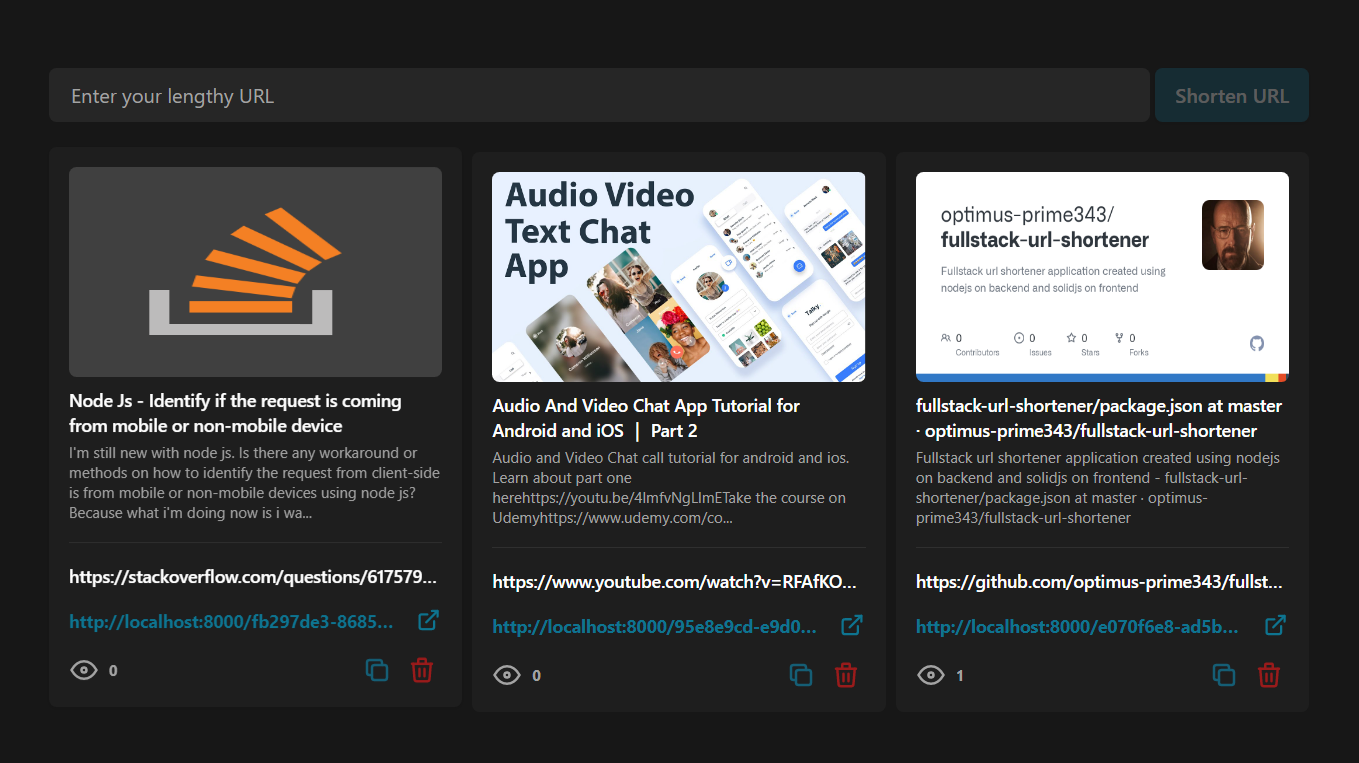
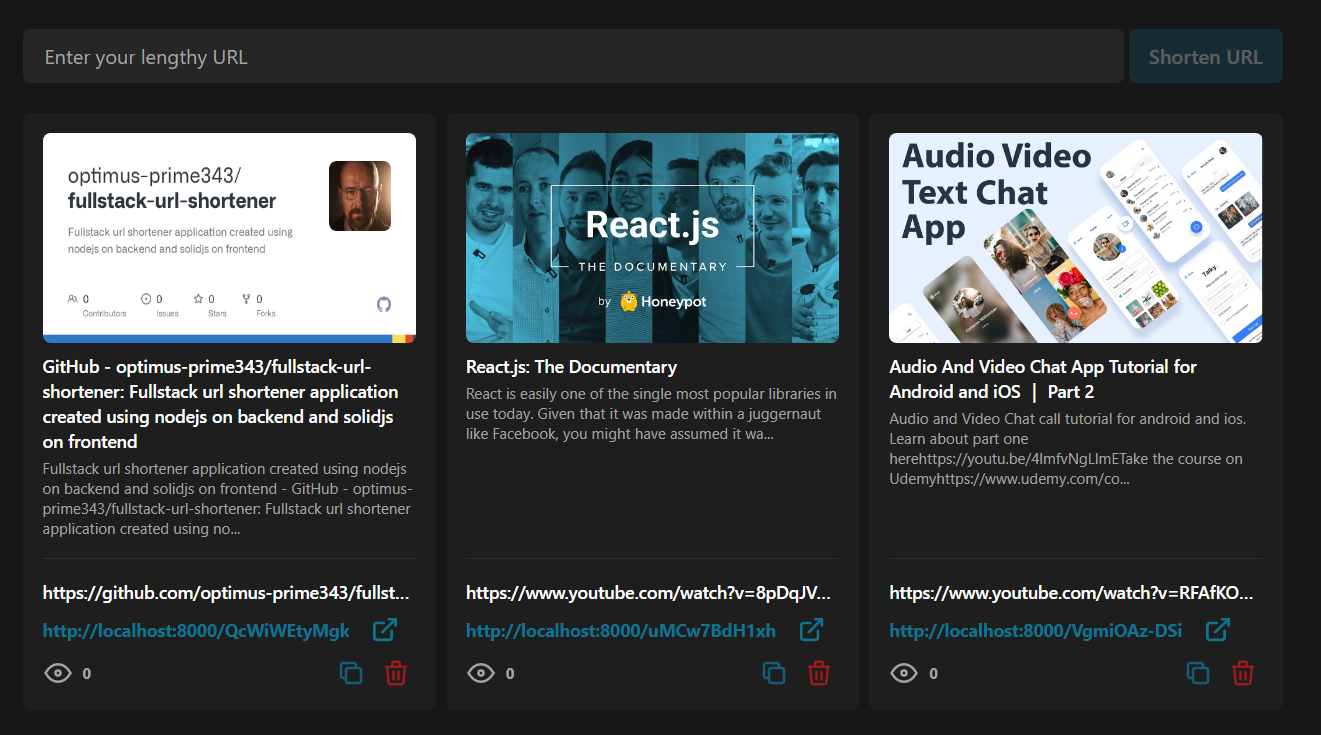
Updated shortened url id and app demo image

diff --git a/packages/server/src/features/shorten-url/shorten-url-controller.ts b/packages/server/src/features/shorten-url/shorten-url-controller.ts
@@ -1,7 +1,7 @@
 import type { User } from '@prisma/client'
-import crypto from 'crypto'
 import expressAsyncHandler from 'express-async-handler'
 import { StatusCodes } from 'http-status-codes'
+import { nanoid } from 'nanoid'
 import openGraphScraper from 'open-graph-scraper'
 
 import { prisma } from '../../lib/db.js'
@@ -22,7 +22,7 @@ export const createShortURL = expressAsyncHandler(async (req, res, _next) => {
     res.status(StatusCodes.OK).send({ success: true, data: { shortenedUrl } })
     return
   }
-  const shortenedURLId = crypto.randomUUID()
+  const shortenedURLId = nanoid(11)
   const shortenedURL = `${req.protocol}://${req.get('host')}/${shortenedURLId}`
   const newShortenedURL = await prisma.url.create({
     data: {

diff --git a/packages/client/src/components/auth/shorten-url/shorten-url-item/shorten-url-item.tsx b/packages/client/src/components/auth/shorten-url/shorten-url-item/shorten-url-item.tsx
@@ -86,7 +86,7 @@ export const ShortenURLItem: Component<ShortenURLItemProps> = props => {
           >
             {local.shortenURL.shortenedUrl}
           </AppText>
-          <IconExternalLink size={35} />
+          <IconExternalLink size={25} />
         </a>
         <div class='flex'>
           <div class='flex items-center gap-2 text-gray-400'>

diff --git a/packages/server/src/features/shorten-url/shorten-url-schema.ts b/packages/server/src/features/shorten-url/shorten-url-schema.ts
@@ -13,7 +13,7 @@ export const getShortenedUrlSchema = z.object({
 })
 export const deleteShortenedURLSchema = z.object({
   params: z.object({
-    id: z.string().uuid(),
+    id: z.string(),
   }),
 })
 export type CreateShortURLPayload = z.infer<typeof createShortUrlSchema>['body']
